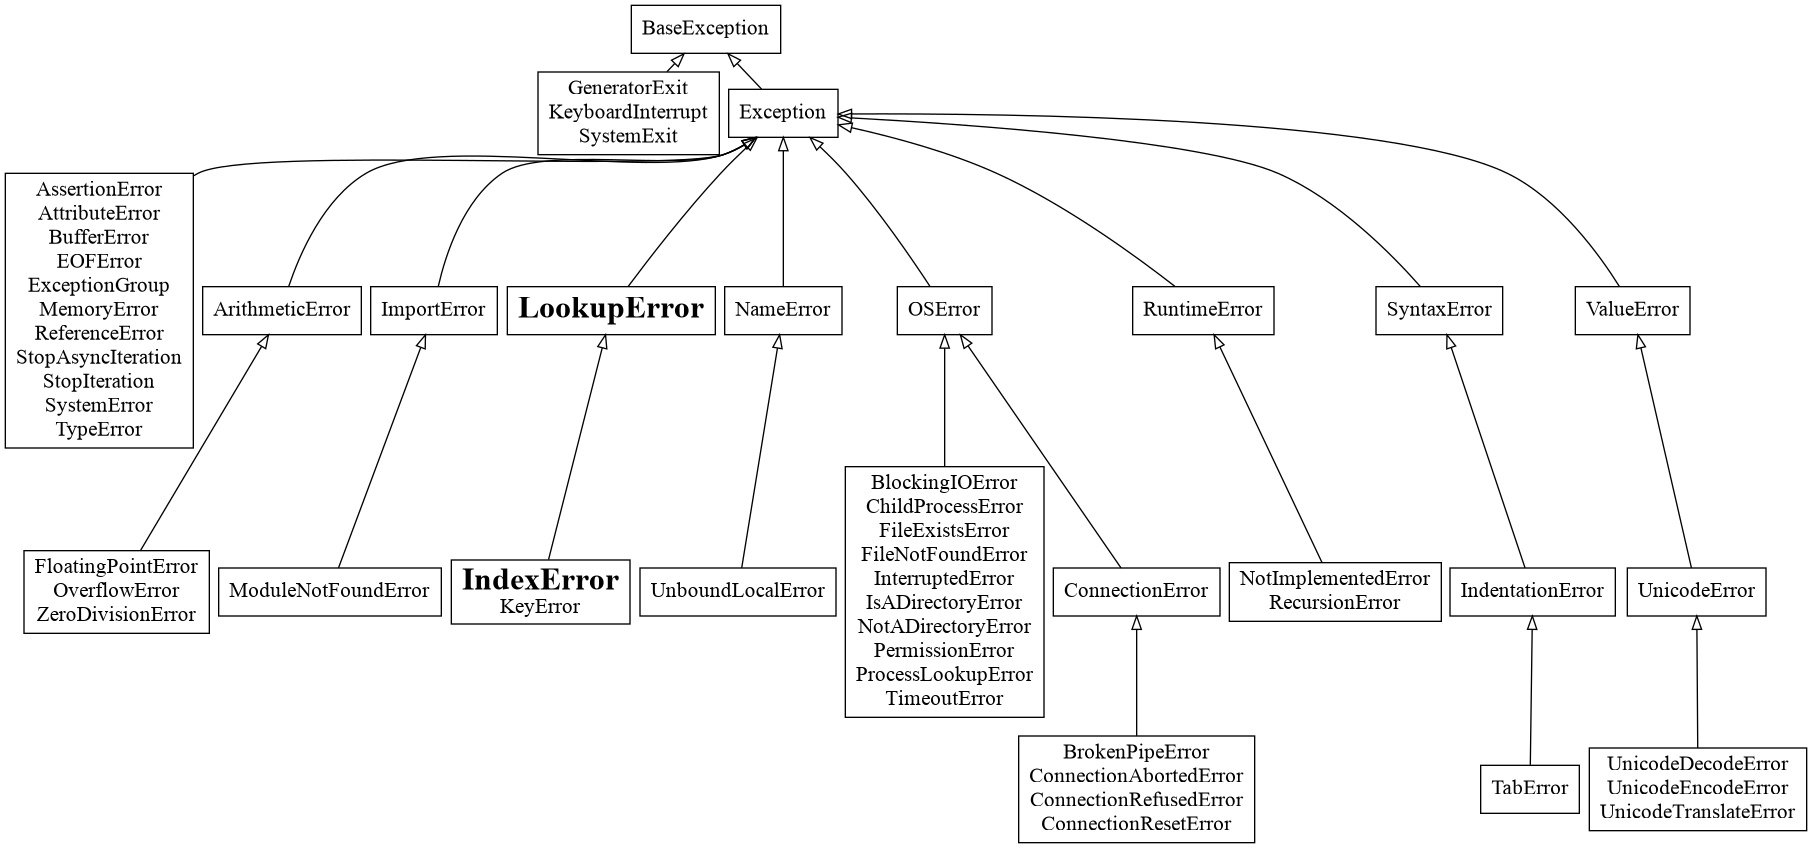
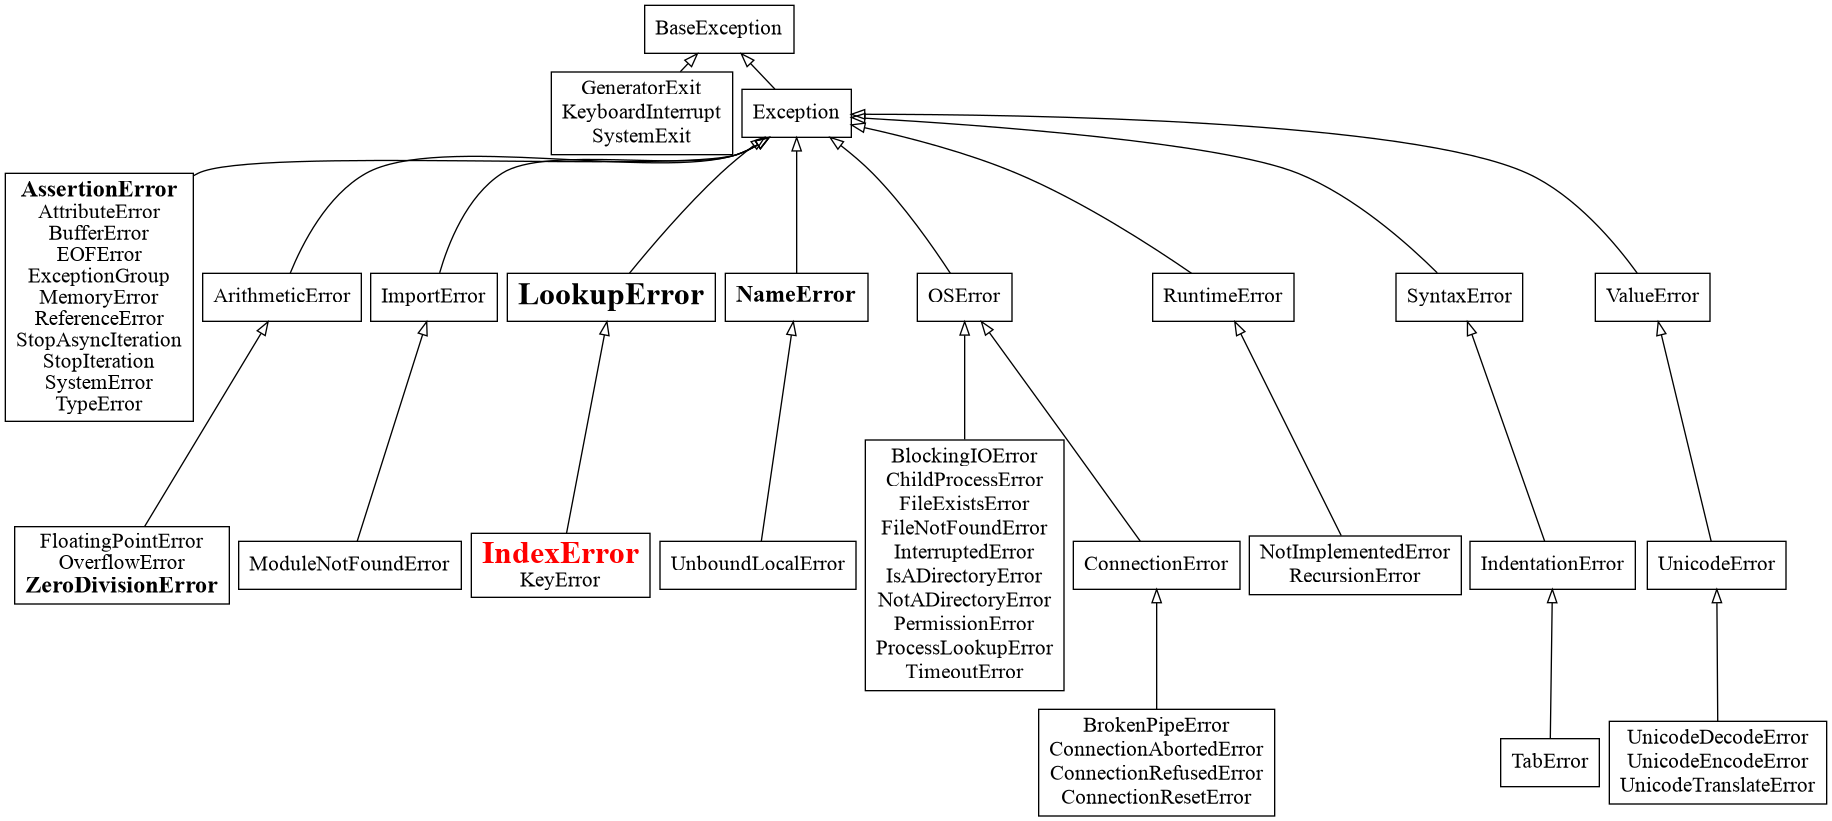
better exception_tree.png

diff --git a/images/exception_tree.py b/images/exception_tree.py
@@ -1,22 +1,26 @@
 import builtins
 
+NORMAL_FONT_SIZE = 16
+
 def builtin_children(cls):
     return [s for s in cls.__subclasses__() if s.__module__ == "builtins"]
 
-HIGHTLIGHT_FONT_SIZE = 24
-def format_name(name, highlight_set):
-    return f'<FONT POINT-SIZE="{HIGHTLIGHT_FONT_SIZE}"><B>{name}</B></FONT>' if name in highlight_set else name
+def format_name(name, highlight_exceptions):
+    if name in highlight_exceptions:
+        print(f'{highlight_exceptions=}')
+        values = highlight_exceptions[name]
+        font_size = ''
+        font_color = ''
+        if len(values) > 0: font_size = f'POINT-SIZE="{values[0]}"'
+        if len(values) > 1: font_color = f'COLOR="{values[1]}"'
+        return f'<FONT {font_color} {font_size}><B>{name}</B></FONT>'
+    return name
 
 def format_group_label(leaves, highlight_exceptions):
-    highlight_set = set(highlight_exceptions)
-    lines = [format_name(c.__name__, highlight_set) for c in leaves]
+    lines = [format_name(c.__name__, highlight_exceptions) for c in leaves]
     return "<" + "<BR/>".join(lines) + ">"
 
-def add_exception_tree(dot, cls=BaseException, drop_exceptions=None, highlight_exceptions=None):
-    if drop_exceptions is None:
-        drop_exceptions = []
-    if highlight_exceptions is None:
-        highlight_exceptions = []
+def add_exception_tree(dot, drop_exceptions, highlight_exceptions, cls=BaseException):
     children = sorted(
         [c for c in builtin_children(cls) if c.__name__ not in drop_exceptions],
         key=lambda c: c.__name__
@@ -33,28 +37,27 @@ def add_exception_tree(dot, cls=BaseException, drop_exceptions=None, highlight_e
         dot.append(f'    "{group_node}" [label={group_label}];')
         dot.append(f'    "{cls.__name__}" -> "{group_node}";')
     # Non-leaf children get their own node and recurse
-    highlight_set = set(highlight_exceptions)
     for child in non_leaves:
-        if child.__name__ in highlight_set:
-            label = format_name(child.__name__, highlight_set)
+        if child.__name__ in highlight_exceptions:
+            label = format_name(child.__name__, highlight_exceptions)
             dot.append(f'    "{child.__name__}" [label=<{label}>];')
         dot.append(f'    "{cls.__name__}" -> "{child.__name__}";')
-        add_exception_tree(dot, child, drop_exceptions, highlight_exceptions)
+        add_exception_tree(dot, drop_exceptions, highlight_exceptions, child)
 
 def create_exception_graph(drop_exceptions=None, highlight_exceptions=None):
     if drop_exceptions is None:
-        drop_exceptions = []
+        drop_exceptions = {}
     if highlight_exceptions is None:
-        highlight_exceptions = []
+        highlight_exceptions = {}
     dot = [
         "digraph ExceptionHierarchy {",
         "    rankdir=TB;",
         "    nodesep=0.1;",
         "    ranksep=0.2;",
-        "    node [shape=box, fontsize=16];",
+        f"    node [shape=box, fontsize={NORMAL_FONT_SIZE}];",
         "    edge [dir=back, arrowtail=empty];",
     ]
-    add_exception_tree(dot, drop_exceptions=drop_exceptions, highlight_exceptions=highlight_exceptions)
+    add_exception_tree(dot, drop_exceptions, highlight_exceptions)
     dot.append("}")
     dot_string = "\n".join(dot)
     return dot_string
@@ -63,7 +66,8 @@ def render_graph(dot_string, output_filename):
     import subprocess
     subprocess.run(["dot", "-Tpng", "-o", output_filename], input=dot_string, text=True, check=True)
 
-drop_exceptions = ['Warning', 'BaseExceptionGroup']
-highlight_exceptions = ['IndexError', 'LookupError']
+drop_exceptions = {'Warning', 'BaseExceptionGroup'}
+highlight_exceptions = {'ZeroDivisionError':(18,), 'AssertionError':(18,), 'NameError':(18,),
+                        'IndexError':(24,'red'), 'LookupError':(24,)}
 dot_string = create_exception_graph(drop_exceptions, highlight_exceptions)
 render_graph(dot_string, "exception_tree.png")

diff --git a/src/exceptions.py b/src/exceptions.py
@@ -5,7 +5,7 @@ def fun2():
             try:
                 d[i] = i  # raises IndexError when i>=3
                 print(d[i])
-            except TypeError as e:
+            except ZeroDivisionError as e:
                 print(type(e), e)
     except AssertionError as e:
         print(type(e), e)

diff --git a/README.md b/README.md
@@ -834,7 +834,7 @@ def fun2():
             try:
                 d[i] = i  # raises IndexError when i>=3
                 print(d[i])
-            except TypeError as e:
+            except ZeroDivisionError as e:
                 print(type(e), e)
     except AssertionError as e:
         print(type(e), e)